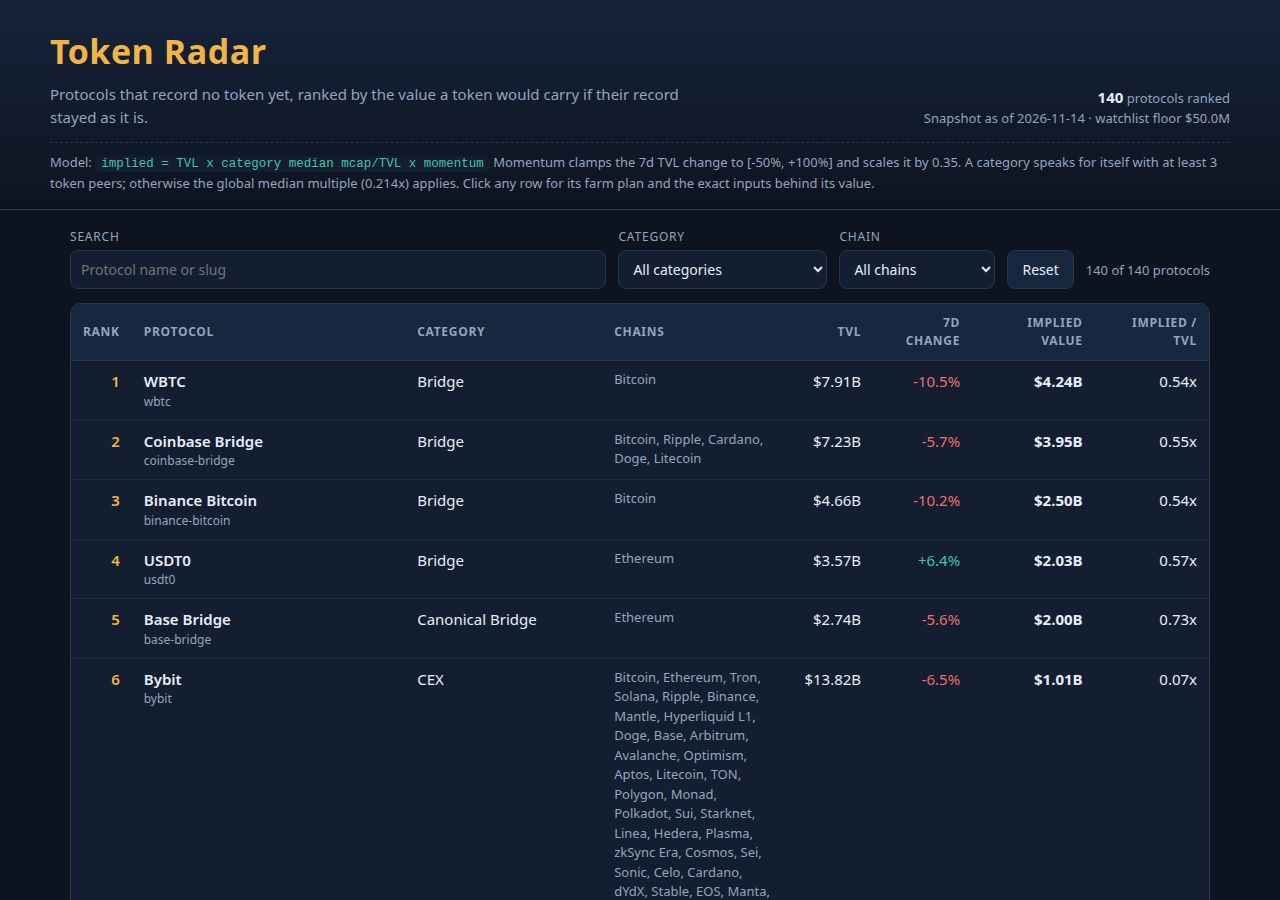
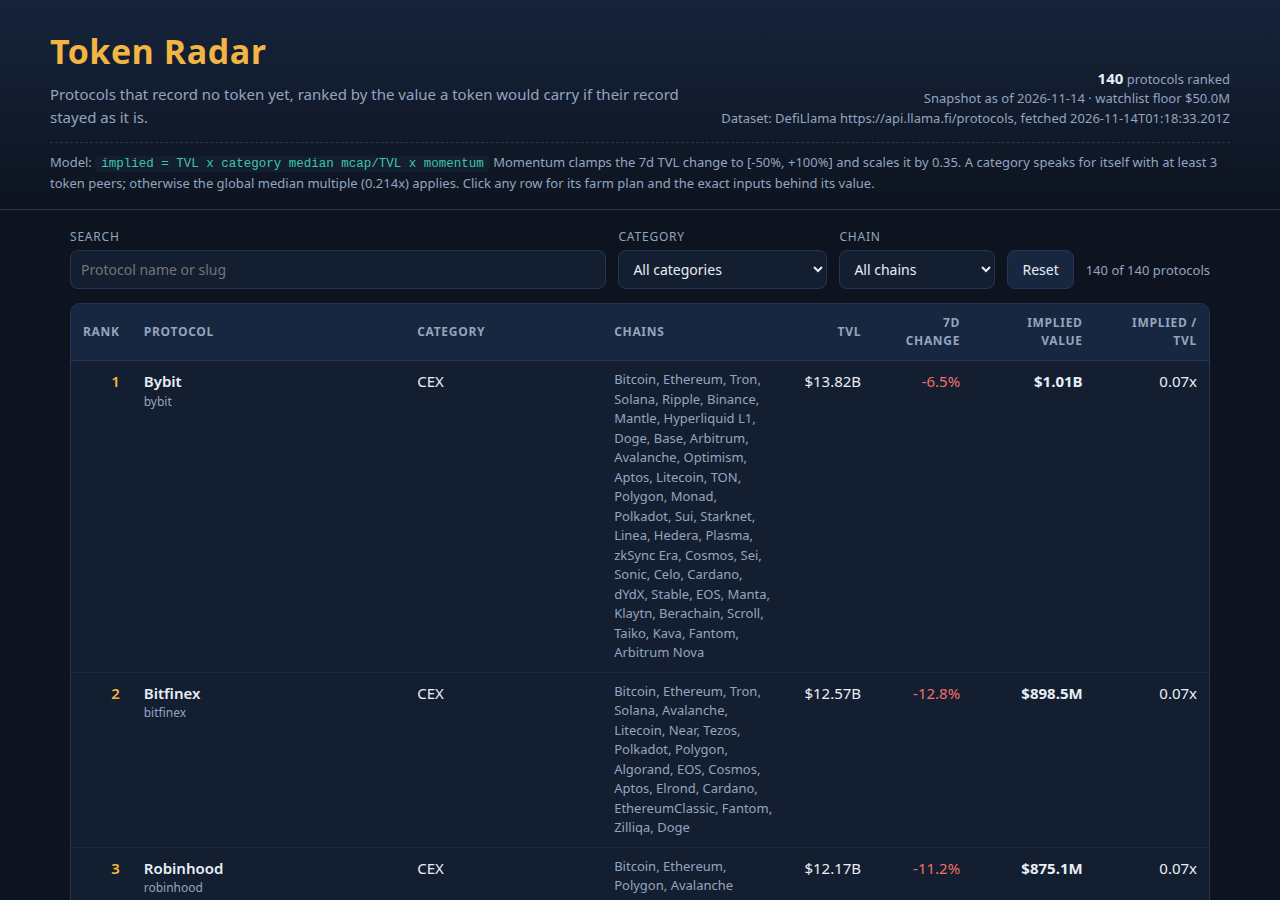
Radar fix: cite dataset source/as_of, exclude tokenized representations from fill
- board.json now carries snapshot.source and snapshot.as_of at the top
  level; buildData propagates source into data.js and the dashboard
  masthead visibly cites the dataset source and as-of date.
- Fill classifier (lib/model.ts isTokenizedRepresentation): rule-based,
  from snapshot category/name/slug only - bridge categories, liquid
  staking/restaking and other representation categories, plus a
  wrapped/staked name-or-slug marker in any category. Fill only; all 40
  watchlist rows stay regardless (e.g. saturn, Stablecoin Wrapper).
  On the official snapshot: 92 of 302 fill candidates excluded (WBTC,
  USDT0, Binance staked ETH out); board still 140 rows.
- Tests: run the program via process.execPath instead of a hardcoded
  /usr/bin/node; add source-citation and classifier/fill tests
  (11/11 pass against the official kit snapshot).
- Dashboard screenshots regenerated at 1280x900 for the new masthead.

diff --git a/lib/model.ts b/lib/model.ts
@@ -17,10 +17,15 @@
 //   implied_value_usd = round(tvl_usd x ratio x momentum), whole dollars.
 //
 // The board is every watchlist slug plus the highest-TVL remaining
-// pre-token protocols, TARGET_ROWS in all. Rows are ordered by implied
-// value; exact ties are broken by TVL, then slug, and any value that
-// would repeat the previous row's is stepped down one dollar at a time
-// so the ranking is strict. No protocol name is ever special-cased.
+// pre-token protocols, TARGET_ROWS in all. The fill (the non-watchlist
+// rows) skips tokenized representations of another asset — wrapped,
+// bridged and liquid-staked products, see isTokenizedRepresentation —
+// because their TVL is backing for a token that already exists, not a
+// protocol awaiting one. The watchlist is exempt: its slugs are always
+// on the board. Rows are ordered by implied value; exact ties are
+// broken by TVL, then slug, and any value that would repeat the
+// previous row's is stepped down one dollar at a time so the ranking
+// is strict. No protocol name is ever special-cased.
 
 /** One protocol record: exactly the ten fields the sealed snapshot carries. */
 export interface SnapshotProtocol {
@@ -96,6 +101,7 @@ export interface BoardRow {
 /** The dashboard's dataset, written to data.js as window.BOARD_DATA. */
 export interface BoardData {
   as_of: string;
+  source: string;
   floor_usd: number;
   model_name: string;
   model_constants: typeof MODEL;
@@ -124,6 +130,57 @@ function median(values: number[]): number {
 /** A protocol records no token when both token identifiers are absent. */
 export function isPreToken(p: SnapshotProtocol): boolean {
   return p.gecko_id === null && p.symbol === null;
+}
+
+/**
+ * Fill exclusion: is this entry a tokenized representation of another
+ * asset — a wrapped, bridged or liquid-staked product — rather than a
+ * standalone protocol that has yet to issue a token? Decided only from
+ * the snapshot's own fields (category, name, slug); no slug is listed
+ * and no rank or value is consulted.
+ *
+ * An entry counts as a representation when ANY of these holds:
+ *   1. Its category is a bridge category ('Bridge', 'Canonical
+ *      Bridge', 'Cross Chain Bridge'). A bridge entry's TVL is
+ *      collateral locked against wrapped copies of other chains'
+ *      assets minted elsewhere, so the entry measures custody of
+ *      assets that already have tokens, not a protocol awaiting one.
+ *   2. Its category is a liquid receipt category ('Liquid Staking',
+ *      'Liquid Restaking') or names a representation product outright
+ *      ('Stablecoin Wrapper', 'Anchor BTC', 'Restaked BTC',
+ *      'Decentralized BTC'). These products are defined by the liquid
+ *      token they issue against staked, restaked or wrapped assets;
+ *      their TVL is that token's backing.
+ *   3. Its name or slug carries the word 'wrapped' or 'staked' (a slug
+ *      segment or a whole word in the name), whatever its category:
+ *      the entry's own label says its product is a wrapped or staked
+ *      representation of another asset.
+ *
+ * Deliberate boundary: 'Staking Pool' and 'Restaking' entries stay
+ * fill-eligible. They operate staking infrastructure and record no
+ * liquid receipt token as their product, so they are protocols in the
+ * board's sense. The exclusion applies to the fill only; buildBoard
+ * never applies it to watchlist slugs.
+ */
+const REPRESENTATION_CATEGORIES: ReadonlySet<string> = new Set([
+  'bridge',
+  'canonical bridge',
+  'cross chain bridge',
+  'liquid staking',
+  'liquid restaking',
+  'stablecoin wrapper',
+  'anchor btc',
+  'restaked btc',
+  'decentralized btc',
+]);
+
+const REPRESENTATION_NAME = /\b(?:wrapped|staked)\b/i;
+const REPRESENTATION_SLUG = /(?:^|-)(?:wrapped|staked)(?:-|$)/;
+
+export function isTokenizedRepresentation(p: SnapshotProtocol): boolean {
+  const category = (p.category ?? '').trim().toLowerCase();
+  if (REPRESENTATION_CATEGORIES.has(category)) return true;
+  return REPRESENTATION_NAME.test(p.name) || REPRESENTATION_SLUG.test(p.slug);
 }
 
 /** Whole days between the day DefiLlama began tracking a protocol and the snapshot date. */
@@ -211,6 +268,10 @@ function scoreRow(p: SnapshotProtocol, snapshot: Snapshot, table: RatioTable, on
 /**
  * The board: every watchlist slug, then the highest-TVL pre-token protocols
  * outside the watchlist until TARGET_ROWS rows, ranked by implied value.
+ * The fill skips tokenized representations (isTokenizedRepresentation):
+ * a wrapped, bridged or liquid-staked product's TVL backs a token that
+ * already exists, so it is not a pre-token protocol in the board's sense.
+ * Watchlist slugs are chosen first and are never excluded.
  */
 export function buildBoard(snapshot: Snapshot): BoardRow[] {
   const table = ratioTable(snapshot);
@@ -221,7 +282,7 @@ export function buildBoard(snapshot: Snapshot): BoardRow[] {
     if (p !== undefined) chosen.set(slug, p);
   }
   const early = snapshot.protocols
-    .filter((p) => !chosen.has(p.slug) && isPreToken(p))
+    .filter((p) => !chosen.has(p.slug) && isPreToken(p) && !isTokenizedRepresentation(p))
     .sort((a, b) => b.tvl_usd - a.tvl_usd || (a.slug < b.slug ? -1 : 1));
   for (const p of early) {
     if (chosen.size >= MODEL.targetRows) break;
@@ -251,6 +312,7 @@ export function buildData(snapshot: Snapshot, board: BoardRow[]): BoardData {
   const table = ratioTable(snapshot);
   return {
     as_of: snapshot.as_of,
+    source: snapshot.source,
     floor_usd: snapshot.floor_usd,
     model_name: MODEL_NAME,
     model_constants: MODEL,

diff --git a/main.ts b/main.ts
@@ -3,7 +3,7 @@
 // Reads the sealed snapshot (--input <file|dir>, default /input/snapshot.json),
 // builds the ranked board with lib/model.ts, and writes the hand-in into the
 // output directory (--output <dir>, else $MAKEFUN_OUTPUT_DIR, else /output):
-//   board.json    the ranked board, {"rows": [...]}
+//   board.json    the ranked board, {"source": ..., "as_of": ..., "rows": [...]}
 //   data.js       the dashboard's dataset (window.BOARD_DATA), beside the page
 //   dashboard/    a copy of this repository's dashboard/
 //   screenshots/  a copy of this repository's screenshots/
@@ -51,7 +51,12 @@ if (issue !== null) fail(`the model built a board the gate refuses: ${issue}`);
 const data = buildData(snapshot, board);
 
 mkdirSync(out, { recursive: true });
-writeFileSync(join(out, 'board.json'), `${JSON.stringify({ rows: board }, null, 1)}\n`);
+// board.json cites the dataset it was built from: the snapshot's own
+// source and as-of date ride at the top level, beside the rows.
+writeFileSync(
+  join(out, 'board.json'),
+  `${JSON.stringify({ source: snapshot.source, as_of: snapshot.as_of, rows: board }, null, 1)}\n`,
+);
 writeFileSync(join(out, 'data.js'), dataScript(data));
 
 /** Copy a directory's regular files into the output, skipping dot names; returns the names copied. */

diff --git a/dashboard/app.js b/dashboard/app.js
@@ -76,7 +76,8 @@
 
   document.getElementById('masthead-meta').innerHTML =
     '<strong>' + rows.length + '</strong> protocols ranked<br>' +
-    'Snapshot as of ' + esc(D.as_of) + ' &middot; watchlist floor ' + money(D.floor_usd);
+    'Snapshot as of ' + esc(D.as_of) + ' &middot; watchlist floor ' + money(D.floor_usd) + '<br>' +
+    'Dataset: ' + esc(D.source || 'sealed snapshot (source not recorded)');
 
   var mc = D.model_constants || {};
   document.getElementById('model-strip').innerHTML =

diff --git a/README.md b/README.md
@@ -31,6 +31,34 @@ null) up to 140 rows. Rows sort by implied value descending; exact ties
 break by TVL, then slug; a value that would repeat the previous row's is
 stepped down $1 at a time so the ranking is strict.
 
+**Fill exclusion (tokenized representations).** The fill — never the
+watchlist — skips products that are tokenized representations of another
+asset: their TVL is backing for a token that already exists, not a
+protocol awaiting one. The rule reads only the snapshot's own fields
+(`isTokenizedRepresentation` in `lib/model.ts`); no slug is listed and no
+rank or value is consulted. An entry is excluded when any of these holds:
+
+- its category is a bridge category (`Bridge`, `Canonical Bridge`,
+  `Cross Chain Bridge`) — a bridge entry's TVL is collateral locked
+  against wrapped copies of other chains' assets;
+- its category is a liquid receipt or representation category (`Liquid
+  Staking`, `Liquid Restaking`, `Stablecoin Wrapper`, `Anchor BTC`,
+  `Restaked BTC`, `Decentralized BTC`) — the product is defined by the
+  liquid token it issues against staked, restaked or wrapped assets;
+- its name or slug carries the word `wrapped` or `staked`, whatever its
+  category.
+
+`Staking Pool` and `Restaking` entries stay eligible: they operate
+staking infrastructure and record no liquid receipt token as their
+product. On this snapshot the rule excludes 92 of the 302 fill
+candidates (WBTC, USDT0 and Binance staked ETH among them) and the fill
+takes the next eligible protocols instead; all 40 watchlist rows stay,
+including any that match the pattern.
+
+**Dataset citation.** `board.json` carries the snapshot's `source` and
+`as_of` at the top level beside the rows, and the dashboard masthead
+cites the same dataset source and as-of date from `data.js`.
+
 **Farm plans.** Five text steps per row, templated from the protocol's
 category (lending, DEX, staking, bridge, yield, derivatives, RWA, CEX,
 generic) and its chains: wallet preparation, the core product action, a
@@ -72,11 +100,11 @@ program write identical bytes.
 
 - Team review gate (JEMBOER → MUSE → kontolchina) before any submission;
   no submission is authorized by this draft.
-- Review question for the gate: the board fill follows the assignment
-  literally (highest-TVL remaining pre-token protocols), which puts
-  wrapped/bridged products of already-trading tokens (e.g. WBTC, USDT0)
-  at the top by TVL. The watchlist itself excludes such products; decide
-  whether the fill should apply the same exclusions.
+- The gate's fill question is answered in this fix round: the fill now
+  excludes tokenized representations of another asset under the
+  documented, rule-based classifier above (watchlist exempt). The fix
+  itself still goes through the same team review gate before any
+  submission.
 - Consider whether the model should also state an age/maturity term (the
   snapshot's `listed_at`) — the current formula is the assigned design
   (category multiple x momentum) and states age only as a displayed fact.
